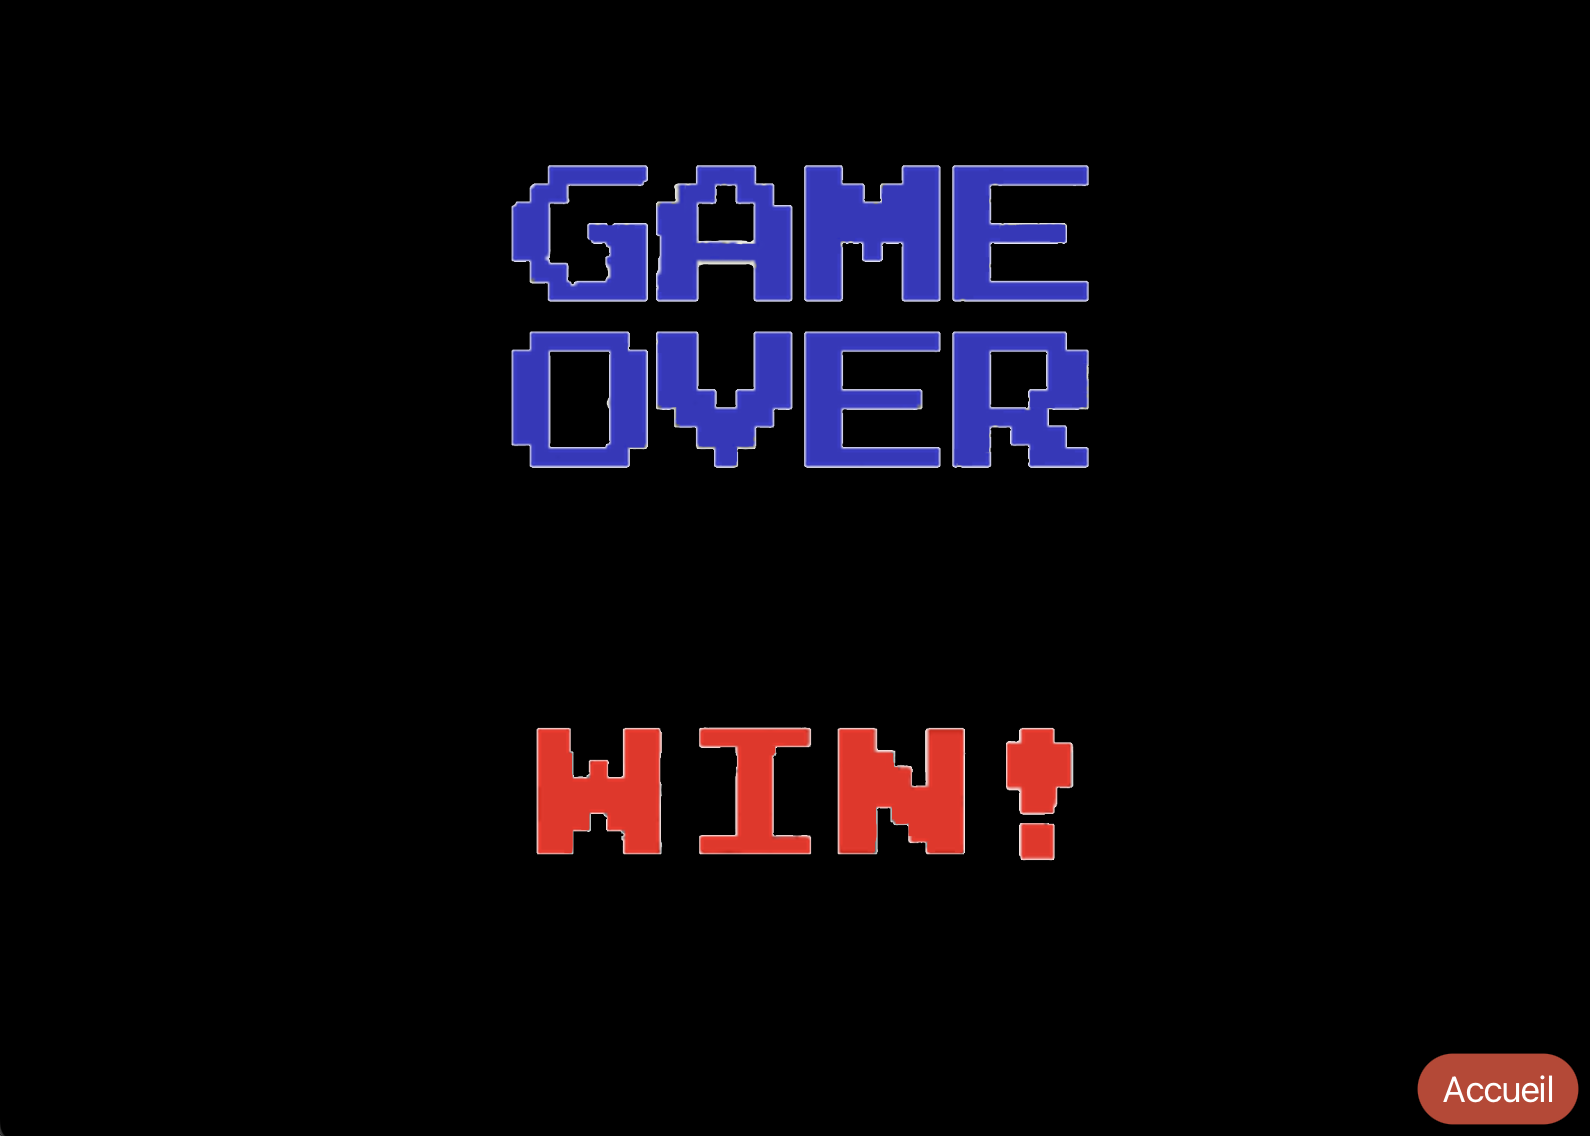
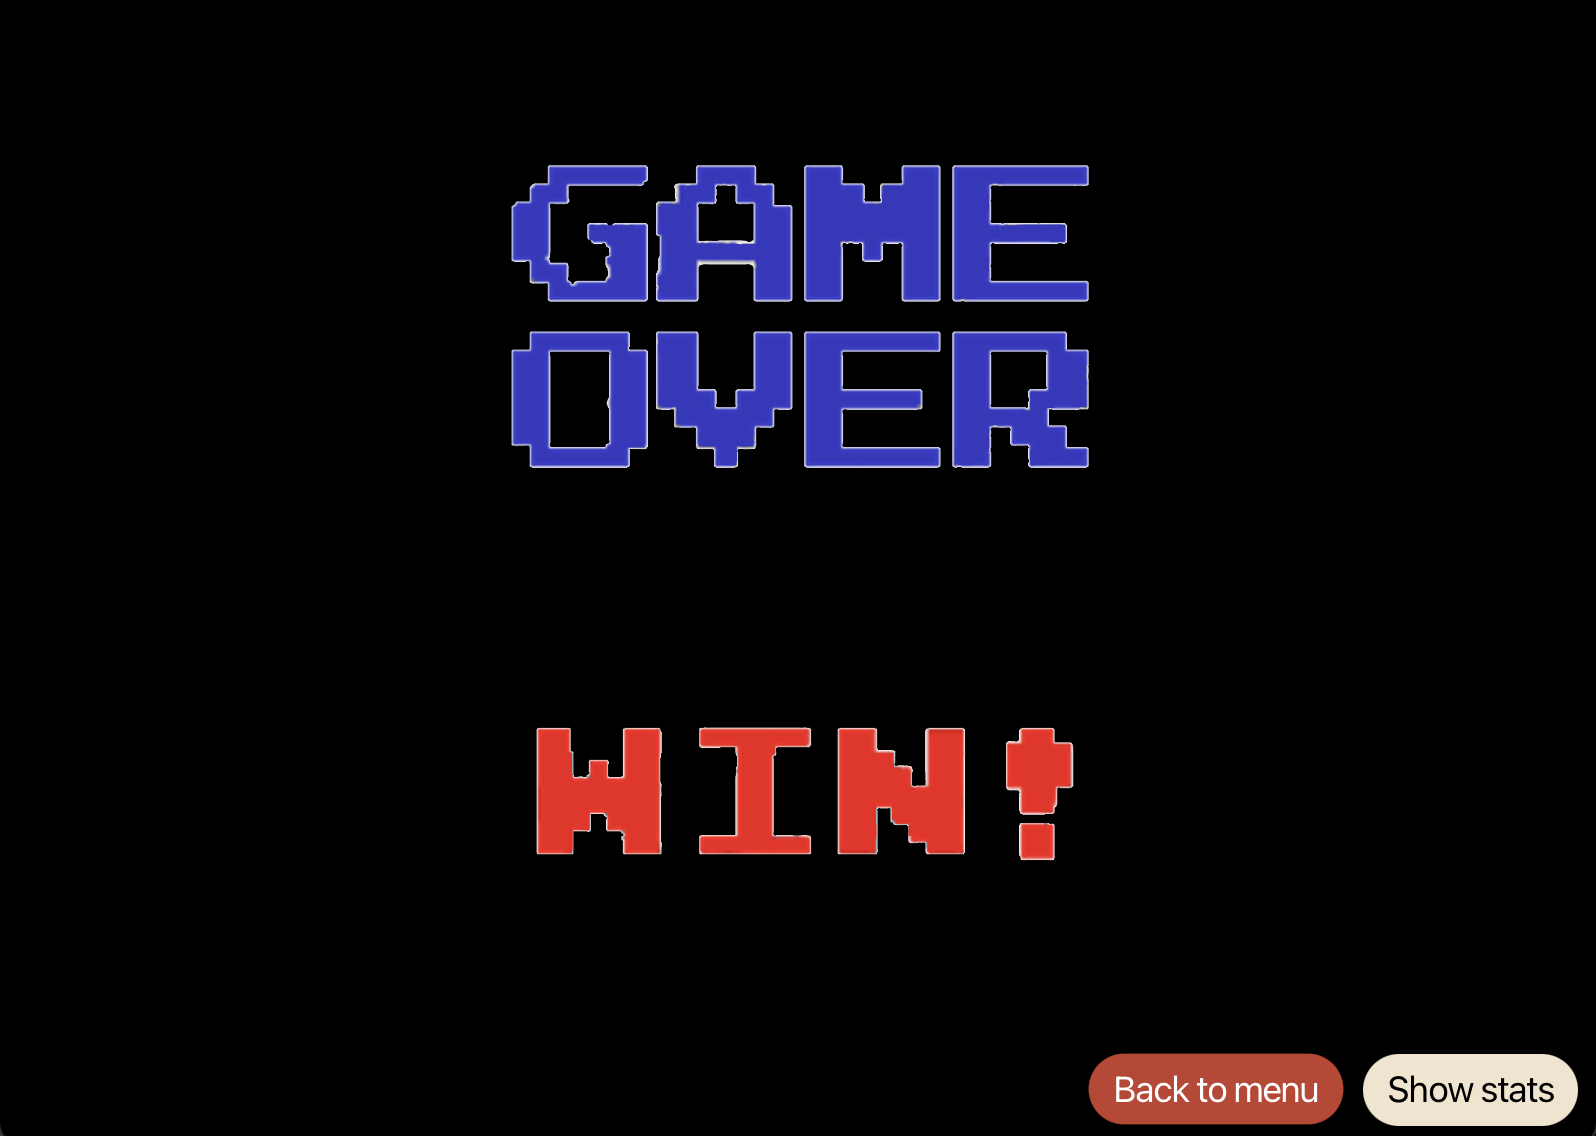
gameovers

diff --git a/README.md b/README.md
@@ -109,12 +109,14 @@ On peut constater qu'ici, deux cases neutres ont été révélées (le drapeau d
 ![Page GAME OVER](./figures/GAMEOVERBLUE.png) 
 
 Cette page s'affiche lorsque la partie est terminée et que l'équipe blue a perdu. 
-L'utilisateur n'a plus qu'à cliquer sur le bouton *Accueil* pour revenir à la page d'accueil.
+L'utilisateur n'a plus qu'à cliquer sur le bouton *Back to menu* pour revenir à la page d'accueil. 
+L'utilisateur peut aussi cliquer sur le bouton *Show stats* pour afficher les statistiques de jeu des équipes.
 
 ![Page GAME OVER](./figures/GAMEOVERRED.png)
 
 Cette page s'affiche lorsque la partie est terminée et que l'équipe rouge a perdu.
-L'utilisateur n'a plus qu'à cliquer sur le bouton *Accueil* pour revenir à la page d'accueil. 
+L'utilisateur n'a plus qu'à cliquer sur le bouton *Back to menu* pour revenir à la page d'accueil. 
+L'utilisateur peut aussi cliquer sur le bouton *Show stats* pour afficher les statistiques de jeu des équipes.
 
 # La page STATISTIQUES
 
